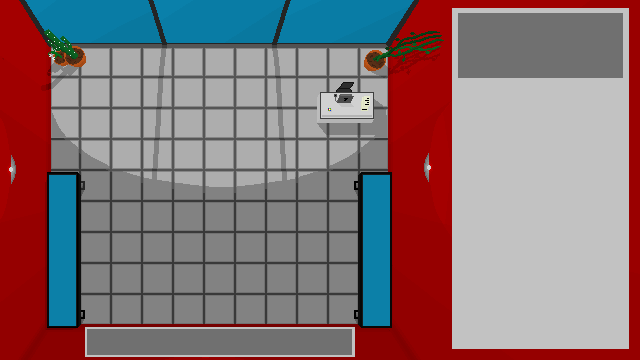
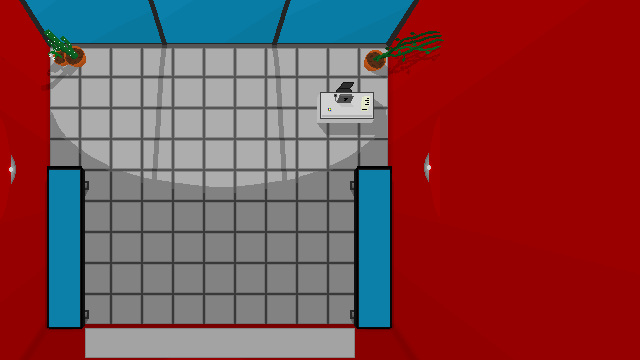
Ajout des deux panel box et code.

diff --git a/src/js/Game.js b/src/js/Game.js
@@ -5,7 +5,8 @@ g.Game.prototype = {
 	localSimulationNumber : 0,
 	create: function() {
 		this.add.sprite(0, 0, 'screen-bg');
-		this.add.sprite(g._WIDTH-160,0, 'panel-left');
+		this.add.sprite(g._WIDTH-134-7,7, 'panel-left');
+		this.add.sprite(g._WIDTH-134-7-96,95,'panel-box');
 		this.stopButton = this.add.button(g._WIDTH/2-200,g._HEIGHT-24 -5, 'button-stop',this.manageStop,this,2,1,3);
 		this.pauseButton = this.add.button(g._WIDTH/2-200+48+5, g._HEIGHT-24 -5, 'button-pause', this.managePause, this, 1, 0 ,2);
 		this.nextStepButton = this.add.button(g._WIDTH/2-200+2*24+10, g._HEIGHT-24 -5, 'button-nextStep', this.manageNext, this, 2, 1, 3);
@@ -47,7 +48,7 @@ g.Game.prototype = {
 	},
 	startLevel: function() {
 		levelNumber = this._currentLevel;
-		var style = { font: "16px Arial", fill: "#ff0044", align: "center"};
+		var style = { font: "14px Arial", fill: "#000000", align: "center"};
 		this.rulesText = this.add.text(g._WIDTH-320+10,10,data.levels[levelNumber-1].wording,style);
 		this.rulesText.mask = this.rulesMask;
 		this.rulesText.align = "left";

diff --git a/src/js/Preloader.js b/src/js/Preloader.js
@@ -13,6 +13,7 @@ g.Preloader.prototype = {
 		this.load.image('element-w', 'assets/img/element-w.png');
 		this.load.image('element-h', 'assets/img/element-h.png');
 		this.load.image('panel', 'assets/img/panel.png');
+		this.load.image('panel-box', 'assets/img/panel-box.png');
 		this.load.image('panel-left', 'assets/img/panel-left.png');
 		this.load.image('title', 'assets/img/title.png');
 		this.load.image('screen-bg', 'assets/img/game-plate.png');
